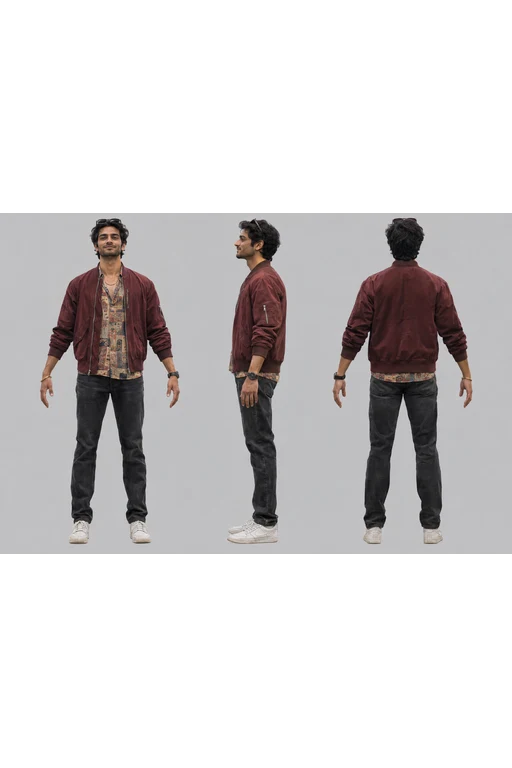
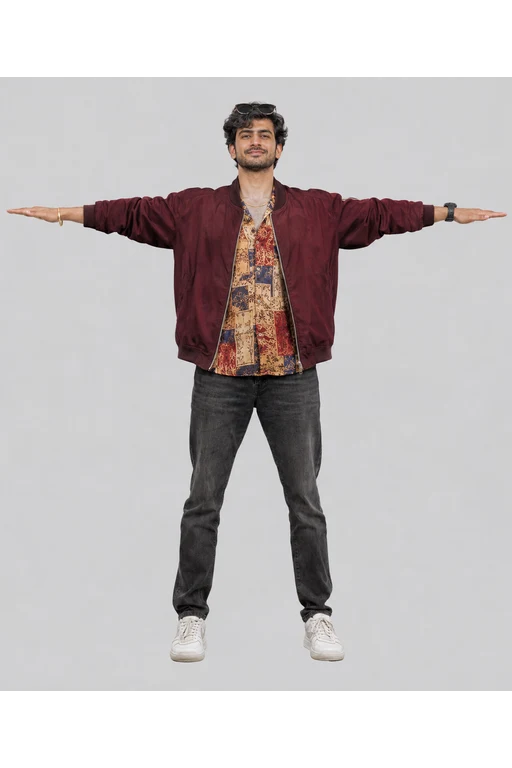
T-pose sheets: Bittu and Danny approved, Meera wider stance

diff --git a/harness/state/journal.md b/harness/state/journal.md
@@ -632,3 +632,4 @@ One line per event, written by task.mjs (start, done, fail, phase changes, inbox
 - 2026-11-14 18:06 [P2-063] done: Owner's three lead models play in game: rest pose matched to the stand-in (fixes the hunched shoulders), heads scaled, per-lead walk, jog, sprint, start, stop and turn, LODs 50k close-up, about 25k in play, 6.2k far, stylised B material, real heights. Verifier PASS (sheets, street, compare; 148 Godot tests). Open tuning: Bittu stop hip step 0.066 vs 0.045 (not visible in play). New models from the approved reference sheets will replace these.
 - 2026-11-14 18:10 mentor message mmwge8990 handled: Fair: bittu_front.png is ready in the same folder. The face task will handle closing his grin.
 - 2026-11-14 18:23 mentor message mmwgeq2u7 handled: Three T-pose front-view prompts are on the picture cards (and in harness/reports/lead_views/tpose_prompts.txt). Upload each on its card; I check them, then you make the 3D models.
+- 2026-11-14 18:30 mentor message mmwgeyjai handled: Bittu and Danny approved, go to 3D. Meera: great face and uniform, but her thighs touch (that fused the trousers last time); redo with a wider stance, prompt updated on her card.
